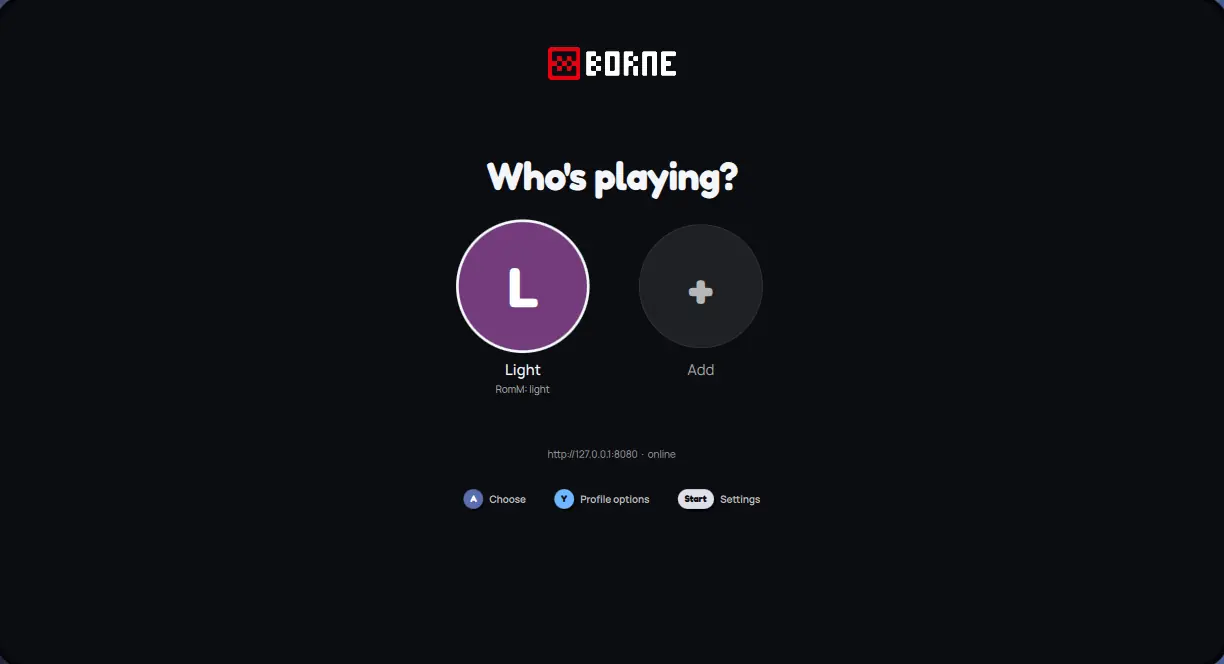
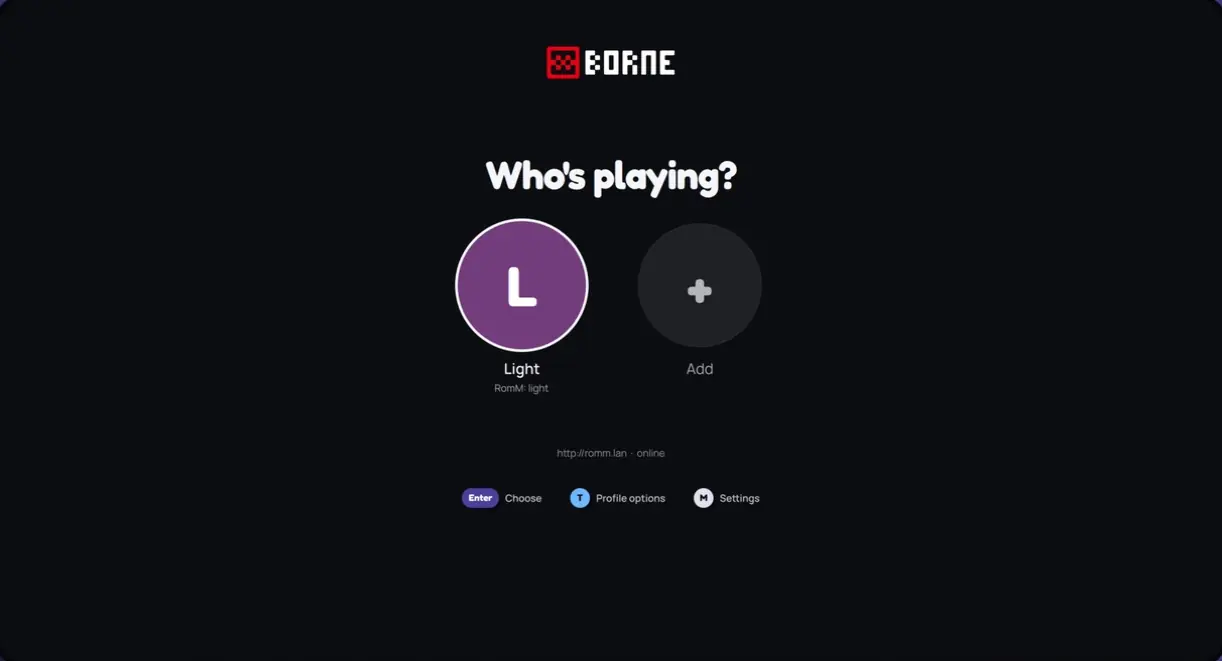
Website: Borne's console frame round the page, screens of the real app
- The page is drawn as Borne's screen: the console frame round it (gradient of the frame colour,
  soft discs and diagonal stripes, as ConsoleFrame.qml) in the brand's red, the screen inside with
  its ink edge and rounded corners.
- The showcase now holds captures of the real app on macOS (profiles, a game's settings and
  picture, emulators, interface), cut to the screen inside the frame; the library stays a test
  collection, without commercial box art.

Claude-Session: https://claude.ai/code/session_01F1ihM3CPQvXhR83BGSUrZD

diff --git a/website/style.css b/website/style.css
@@ -27,22 +27,39 @@
   --radius: 14px;
   --ink-shadow: 4px 4px 0 rgba(5, 6, 10, .8);
   --wrap: 1200px;
+  --tint: #E60012;                /* the frame's colour, as the app's console frame (ConsoleFrame.qml) */
+  --frame: clamp(10px, 2.6vw, 40px);
 }
 
 * { box-sizing: border-box; }
-html { scroll-behavior: smooth; background: var(--bg); }
+html { scroll-behavior: smooth; background: #3B0004; }
 body {
   margin: 0; color: var(--fg); background: var(--bg);
   font: 400 1.0625rem/1.6 "Manrope", system-ui, sans-serif;
   -webkit-font-smoothing: antialiased;
 }
+/* The page is Borne's screen: the console frame round it (ConsoleFrame.qml: a gradient of the
+   console's colour, two soft discs, diagonal stripes), the screen inside with an ink edge. */
+body {
+  background:
+    repeating-linear-gradient(-45deg, transparent 0 42px, rgba(255, 255, 255, .05) 42px 60px),
+    radial-gradient(circle at 8% 0%, color-mix(in srgb, var(--tint) 45%, #fff 0%) 0, transparent 34vmax),
+    radial-gradient(circle at 100% 100%, color-mix(in srgb, var(--tint) 55%, transparent) 0, transparent 40vmax),
+    linear-gradient(90deg, color-mix(in srgb, var(--tint) 26%, #000), color-mix(in srgb, var(--tint) 62%, #000));
+  background-attachment: fixed;
+  padding: var(--frame);
+}
+.app {
+  position: relative; overflow: hidden; isolation: isolate;
+  background: var(--bg); border-radius: 40px;
+  box-shadow: 0 0 0 5px var(--ink), 10px 12px 0 5px rgba(5, 6, 10, .5);
+}
 /* The halo: the app's living background, here in the brand's red, fading into the dark. */
-body::before {
+.app::before {
   content: ""; position: absolute; inset: 0 0 auto 0; height: 1100px; z-index: -1; pointer-events: none;
   background:
-    radial-gradient(60% 55% at 78% 30%, rgba(230, 0, 18, .30), transparent 70%),
-    radial-gradient(45% 40% at 10% 0%, rgba(230, 0, 18, .16), transparent 70%),
-    linear-gradient(transparent 60%, var(--bg));
+    radial-gradient(60% 55% at 78% 30%, rgba(230, 0, 18, .26), transparent 70%),
+    radial-gradient(45% 40% at 10% 0%, rgba(230, 0, 18, .14), transparent 70%);
 }
 h1, h2, h3 { font-family: "Borne Blocks", "Fredoka", sans-serif; font-weight: 400; line-height: 1.15; margin: 0; }
 h1 { font-size: clamp(2.4rem, 4.6vw, 4rem); line-height: 1.2; }
@@ -106,10 +123,11 @@ code, pre, kbd { font-family: ui-monospace, "SF Mono", Menlo, Consolas, monospac
 
 /* The app's screen, as its window: dark, rounded, outlined in ink */
 .showcase { margin: 0; }
-.pills { display: flex; flex-wrap: wrap; gap: 8px; margin-bottom: 18px; }
+.pills { display: flex; flex-wrap: wrap; gap: 6px; margin-bottom: 18px; }
+.pills button { padding: 8px 14px; font-size: .9rem; }
 .screen {
-  border-radius: 22px; overflow: hidden; background: var(--bg); aspect-ratio: 1224 / 664;
-  border: 4px solid var(--ink); box-shadow: 8px 8px 0 rgba(5, 6, 10, .8), 0 40px 90px -30px rgba(230, 0, 18, .45);
+  border-radius: 3% / 5.5%; overflow: hidden; background: var(--bg); aspect-ratio: 1222 / 661;
+  box-shadow: 0 0 0 4px var(--ink), 8px 8px 0 4px rgba(5, 6, 10, .8), 0 40px 90px -30px rgba(230, 0, 18, .45);
 }
 .screen img { display: block; width: 100%; height: 100%; object-fit: cover; }
 .showcase figcaption { margin-top: 14px; font-size: .85rem; color: var(--fg-muted); }
@@ -170,7 +188,7 @@ kbd { display: inline-block; min-width: 1.9em; text-align: center; padding: 3px 
 .legal { max-width: var(--wrap); margin: 0 auto; padding: 0 52px 48px; font-size: .85rem; color: var(--fg-muted); }
 
 /* A second, dimmer halo behind the middle of the page, as the background follows the selection. */
-#features { position: relative; }
+#features { position: relative; z-index: 0; }
 #features::before {
   content: ""; position: absolute; inset: -160px -10% -120px; z-index: -1; pointer-events: none;
   background: radial-gradient(50% 45% at 15% 50%, rgba(230, 0, 18, .12), transparent 70%);
@@ -189,7 +207,7 @@ kbd { display: inline-block; min-width: 1.9em; text-align: center; padding: 3px 
   .steps { grid-template-columns: 1fr; }
   .panel { padding: 22px; }
   .section { padding-bottom: 76px; }
-  .screen { border-radius: 14px; border-width: 3px; }
+  .app { border-radius: 24px; }
 }
 @media (prefers-reduced-motion: reduce) {
   html { scroll-behavior: auto; }

diff --git a/website/index.html b/website/index.html
@@ -16,6 +16,7 @@
 </head>
 <body>
 <a class="skip" href="#main">Skip to content</a>
+<div class="app">
 
 <header class="top">
   <a href="./" class="brand"><img src="assets/logo.svg" alt="Borne" width="139" height="35"></a>
@@ -42,16 +43,17 @@
 
     <figure class="showcase">
       <div class="pills" role="group" aria-label="Choose a screen">
-        <button type="button" aria-pressed="true" data-src="assets/shots/library.webp" data-alt="The library: games shown as 3D cases on a shelf, with a tab for each console">Library</button>
-        <button type="button" aria-pressed="false" data-src="assets/shots/game.webp" data-alt="A game page: Play, favourites, game settings and the languages the game exists in">Game</button>
-        <button type="button" aria-pressed="false" data-src="assets/shots/gamesettings.webp" data-alt="A game's own settings: its emulator and options for this game only">Game settings</button>
-        <button type="button" aria-pressed="false" data-src="assets/shots/profiles.webp" data-alt="Who's playing? The profile screen">Profiles</button>
-        <button type="button" aria-pressed="false" data-src="assets/shots/settings.webp" data-alt="Settings, each option explained in plain words">Settings</button>
+        <button type="button" aria-pressed="true" data-src="assets/shots/profiles.webp" data-alt="Who's playing? The profile screen, with the Borne logo">Profiles</button>
+        <button type="button" aria-pressed="false" data-src="assets/shots/library.webp" data-alt="The library: games shown as 3D cases on a shelf, with a tab for each console">Library</button>
+        <button type="button" aria-pressed="false" data-src="assets/shots/game-settings.webp" data-alt="A game's own settings: its emulator and the emulator's options for this game only">Game settings</button>
+        <button type="button" aria-pressed="false" data-src="assets/shots/game-picture.webp" data-alt="A game's picture settings: shape, rendering resolution, pixels, scaling">Picture</button>
+        <button type="button" aria-pressed="false" data-src="assets/shots/settings-emulators.webp" data-alt="Settings: the emulator used for each console">Emulators</button>
+        <button type="button" aria-pressed="false" data-src="assets/shots/settings-interface.webp" data-alt="Settings: videos behind the library, interface size, animations">Interface</button>
       </div>
       <div class="screen">
-        <img id="screen-img" src="assets/shots/library.webp" alt="The library: games shown as 3D cases on a shelf, with a tab for each console" width="1224" height="664">
+        <img id="screen-img" src="assets/shots/profiles.webp" alt="Who's playing? The profile screen, with the Borne logo" width="1222" height="661">
       </div>
-      <figcaption>Borne with a test library.</figcaption>
+      <figcaption>Borne on macOS. The library is shown with a test collection.</figcaption>
     </figure>
   </section>
 
@@ -139,6 +141,7 @@
   </nav>
 </footer>
 <p class="legal">Free software under the GPL-3.0-or-later. Not affiliated with RomM or any console maker.</p>
+</div>
 
 <script>
   // The screen tabs: show the chosen screen, as the app's tabs do.
